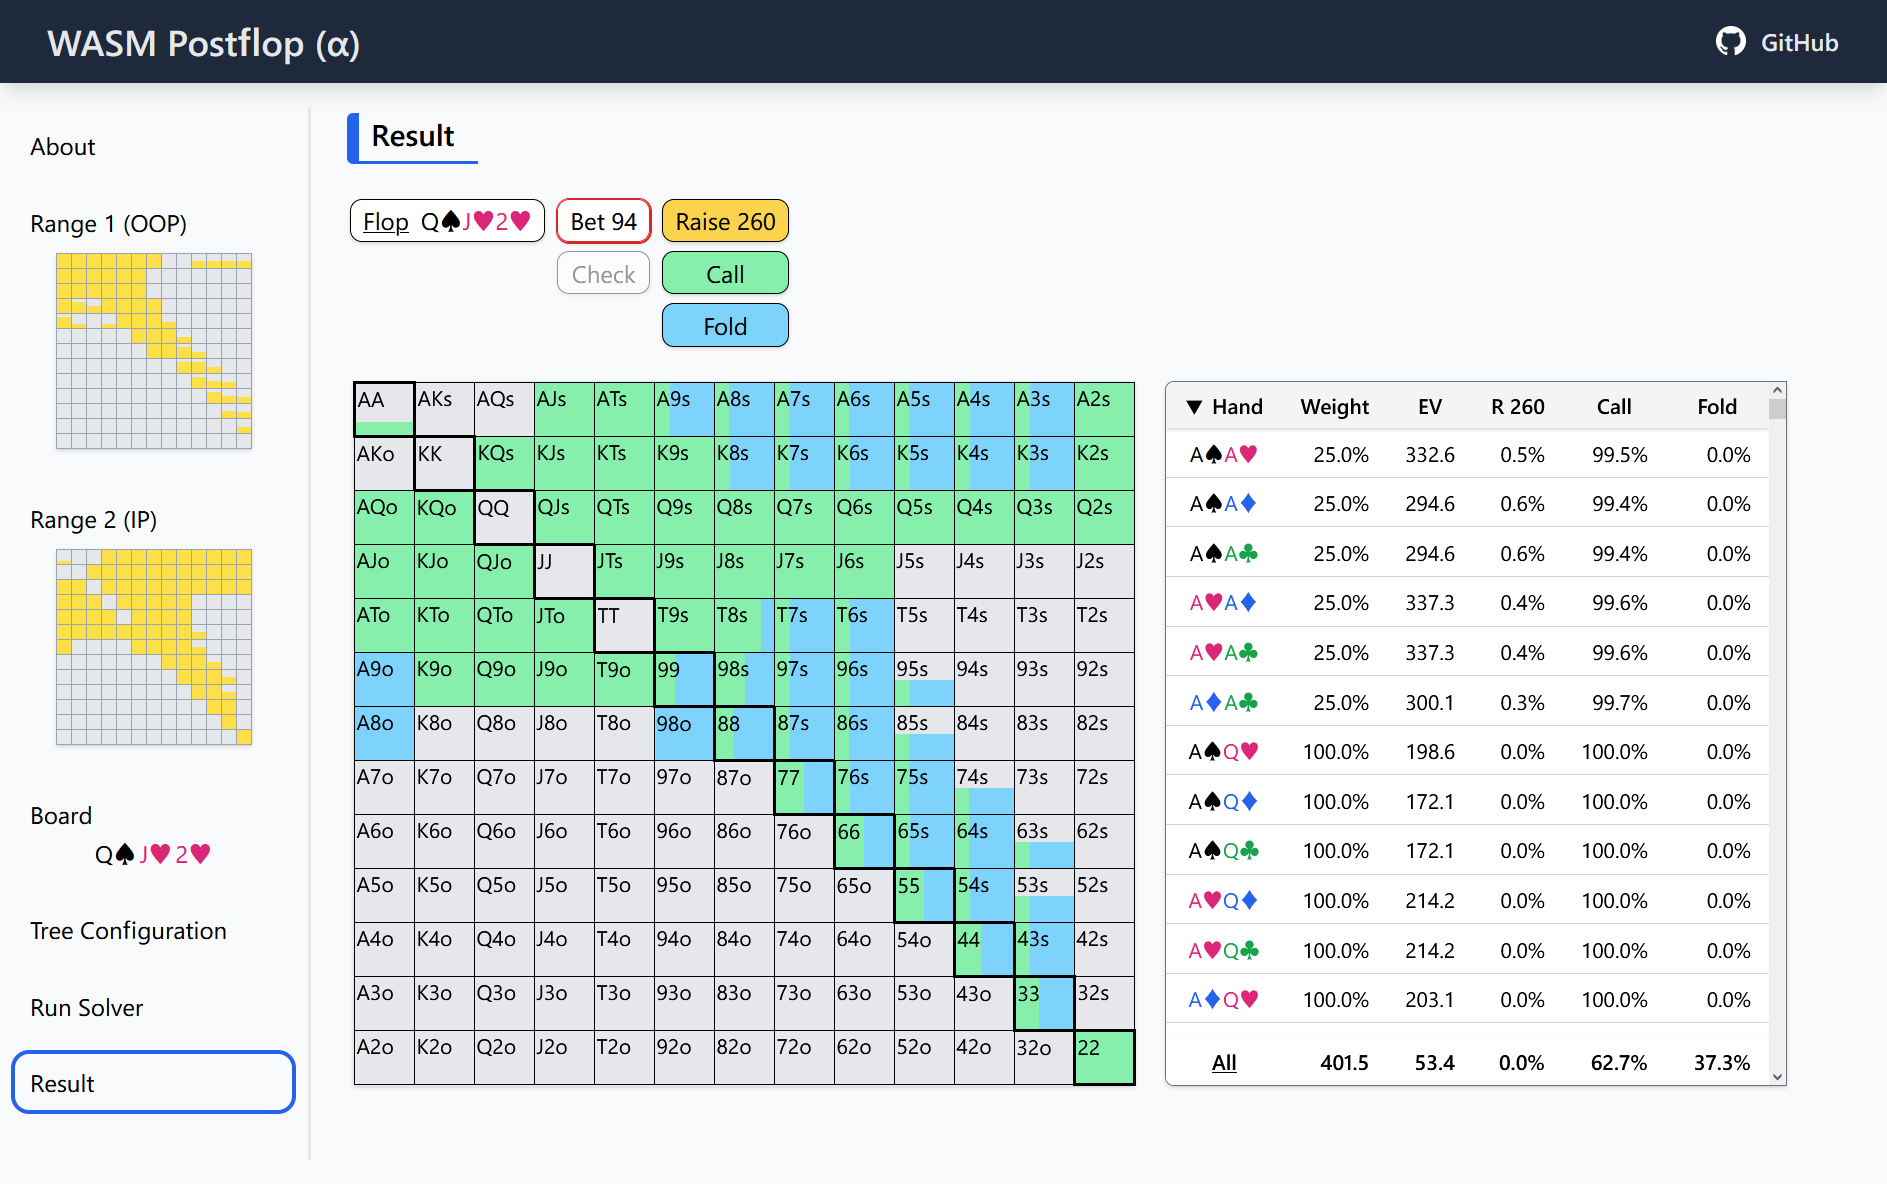
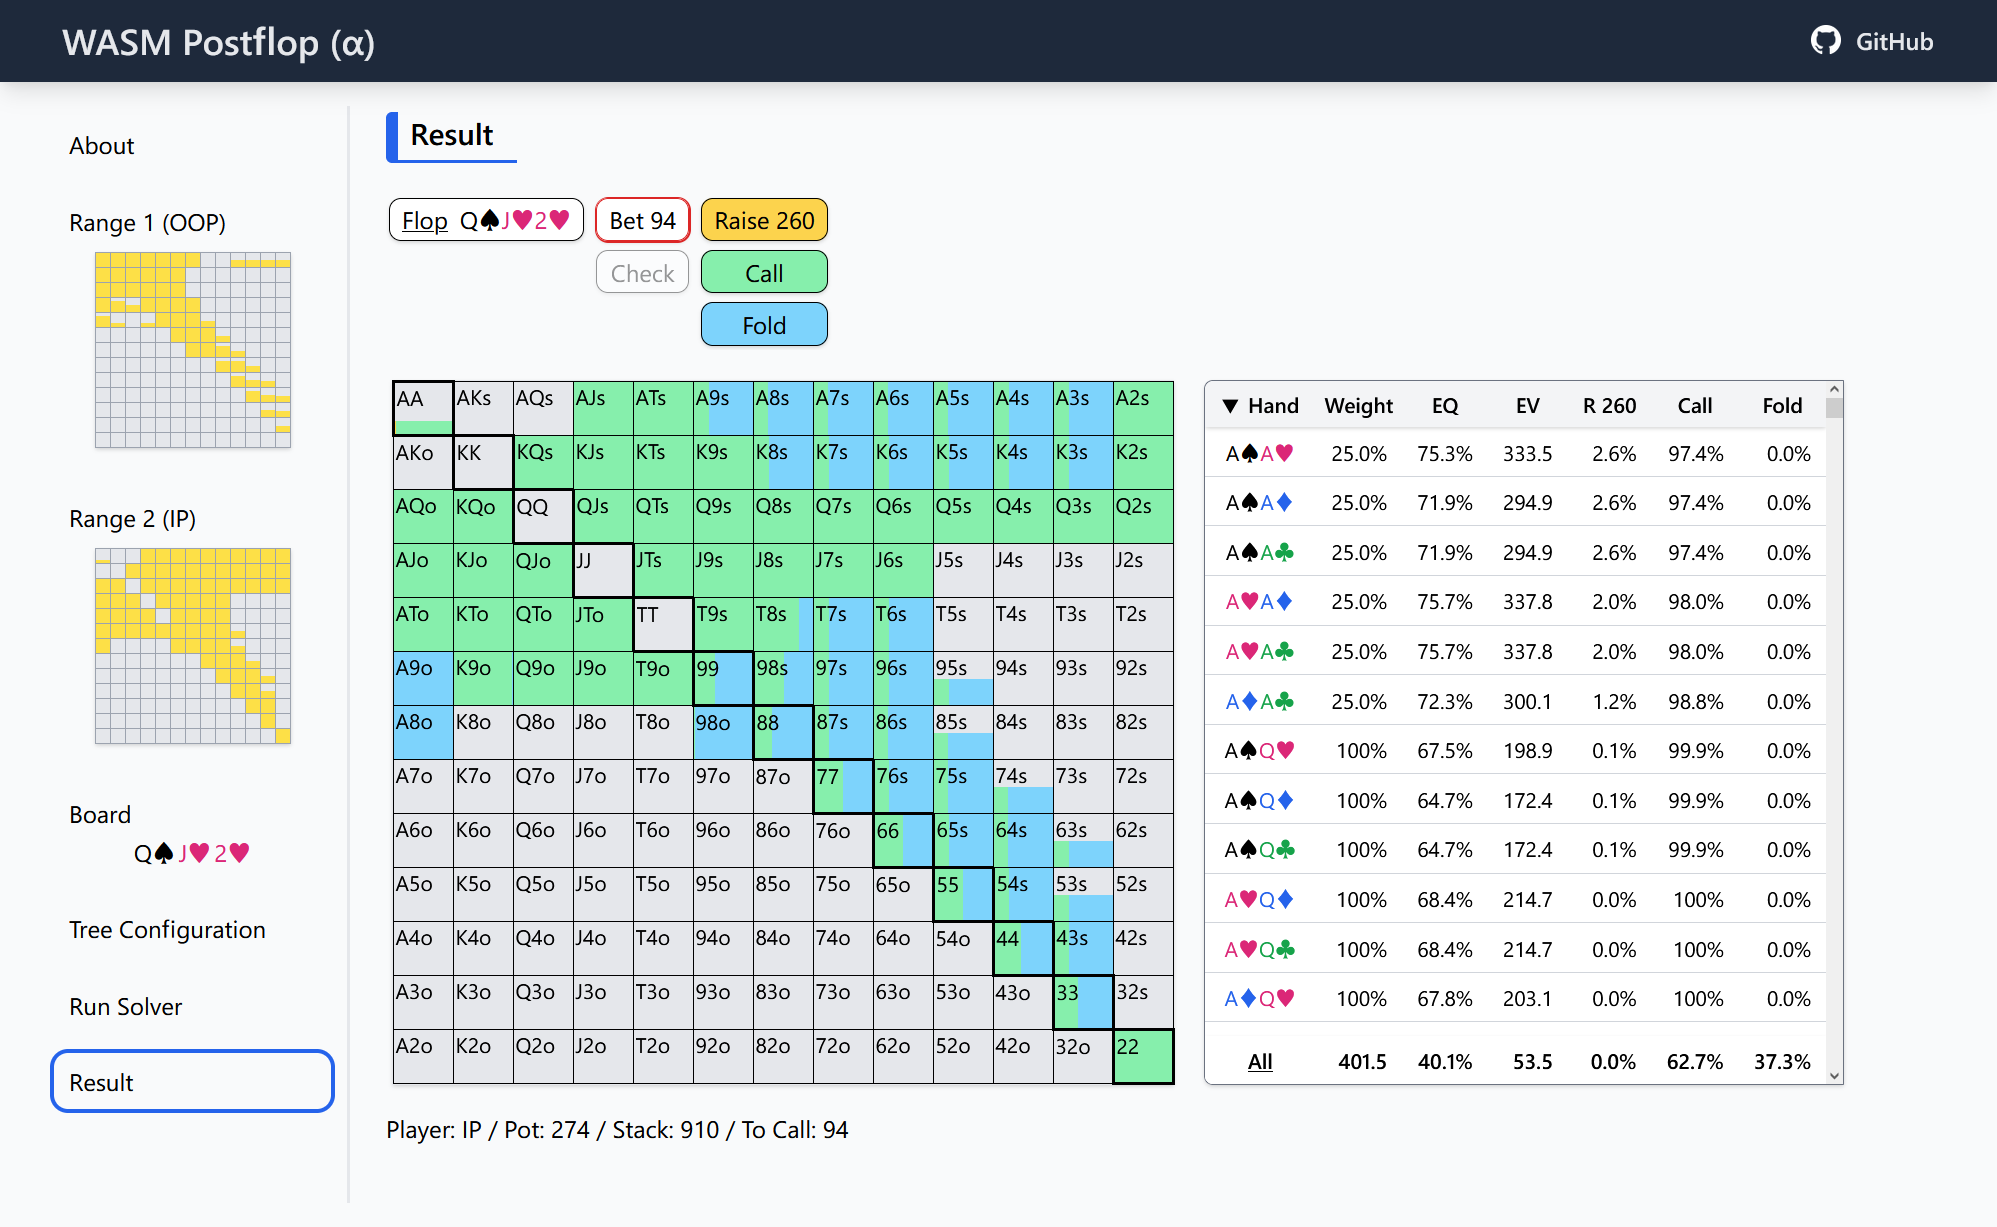
update: show brief information of node at result viewer

Changed region(s): [[0.0, 0.0, 1.0, 0.9688], [0.0307, 0.1562, 0.1537, 0.375], [0.0307, 0.4062, 0.1537, 0.625]]

diff --git a/src/components/ResultViewer.vue b/src/components/ResultViewer.vue
@@ -97,135 +97,144 @@
       v-if="
         actionList.length === 0 || actionList.slice(-1)[0].type === 'Player'
       "
-      class="flex mt-5 items-start"
     >
-      <div class="shrink-0">
-        <table class="ml-1 bg-gray-200 shadow" @mouseleave="onMouseLeave">
-          <tr v-for="row in 13" :key="row" class="h-9">
-            <td
-              v-for="col in 13"
-              :key="col"
-              :class="
-                'relative w-10 border-black select-none ' +
-                (row === col ? 'border-2' : 'border')
-              "
-              @mouseover="onMouseOver(row, col)"
-            >
-              <div
-                class="absolute bottom-0 left-0 w-full"
-                :style="{ height: weightPercent(row, col) }"
+      <div class="flex mt-5 items-start">
+        <div class="shrink-0">
+          <table class="ml-1 bg-gray-200 shadow" @mouseleave="onMouseLeave">
+            <tr v-for="row in 13" :key="row" class="h-9">
+              <td
+                v-for="col in 13"
+                :key="col"
+                :class="
+                  'relative w-10 border-black select-none ' +
+                  (row === col ? 'border-2' : 'border')
+                "
+                @mouseover="onMouseOver(row, col)"
               >
                 <div
-                  v-for="item in cellItems(row, col)"
-                  :key="item.key"
-                  :class="'absolute top-0 right-0 h-full ' + item.class"
-                  :style="item.style"
-                ></div>
-              </div>
-              <div class="absolute -top-px left-px z-50 text-sm">
-                {{ cellText(row, col) }}
-              </div>
-              <div class="absolute -bottom-px right-px z-50 text-sm">
-                {{ cellAuxText(row, col) }}
-              </div>
-            </td>
-          </tr>
-        </table>
+                  class="absolute bottom-0 left-0 w-full"
+                  :style="{ height: weightPercent(row, col) }"
+                >
+                  <div
+                    v-for="item in cellItems(row, col)"
+                    :key="item.key"
+                    :class="'absolute top-0 right-0 h-full ' + item.class"
+                    :style="item.style"
+                  ></div>
+                </div>
+                <div class="absolute -top-px left-px z-50 text-sm">
+                  {{ cellText(row, col) }}
+                </div>
+                <div class="absolute -bottom-px right-px z-50 text-sm">
+                  {{ cellAuxText(row, col) }}
+                </div>
+              </td>
+            </tr>
+          </table>
+        </div>
+
+        <div
+          class="ml-5 max-h-[470px] border border-gray-500 rounded-md shadow overflow-x-auto overflow-y-scroll"
+        >
+          <table class="relative divide-y divide-gray-300">
+            <thead class="sticky top-0 bg-gray-100 shadow">
+              <tr>
+                <th
+                  v-for="text in headers"
+                  :key="text"
+                  scope="col"
+                  :class="
+                    'py-[5px] whitespace-nowrap text-sm font-bold cursor-pointer select-none ' +
+                    (text === 'Hand' ? 'text-center ' : '') +
+                    (text === 'Weight' ? 'px-1.5' : 'px-2.5')
+                  "
+                  @click="sortBy(text)"
+                >
+                  <span
+                    v-if="text === sortKey.key"
+                    class="inline-block mr-0.5 text-xs"
+                  >
+                    {{ sortKey.order === "asc" ? "▲" : "▼" }}
+                  </span>
+                  {{
+                    text
+                      .replace("Bet", "B")
+                      .replace("Raise", "R")
+                      .replace("All-in", "A")
+                  }}
+                </th>
+              </tr>
+            </thead>
+
+            <tbody class="bg-white divide-y divide-gray-300">
+              <tr
+                v-for="item in resultSorted"
+                :key="item.card1 + '-' + item.card2"
+                class="text-right text-sm"
+              >
+                <td class="px-2.5 py-[5px] text-center">
+                  <template
+                    v-for="card in [item.card1, item.card2].map(cardText)"
+                    :key="card.rank + card.suit"
+                  >
+                    <span :class="card.colorClass">
+                      {{ card.rank + card.suit }}
+                    </span>
+                  </template>
+                </td>
+                <td class="px-2.5 py-[5px]">
+                  {{ percentStr(item.weight) }}
+                </td>
+                <td class="px-2.5 py-[5px]">
+                  {{ percentStr(item.equity) }}
+                </td>
+                <td class="px-2.5 py-[5px]">
+                  {{ trimMinusZero(item.expectedValue.toFixed(1)) }}
+                </td>
+                <td
+                  v-for="i in item.strategy.length"
+                  :key="i"
+                  class="px-2.5 py-[5px]"
+                >
+                  {{ percentStr(item.strategy[i - 1]) }}
+                </td>
+              </tr>
+            </tbody>
+
+            <tfoot class="sticky bottom-0 font-bold bg-white shadow">
+              <tr class="text-right text-sm">
+                <th scope="col" class="px-2.5 py-[5px] text-center underline">
+                  {{ hoveredCellText }}
+                </th>
+                <th scope="col" class="px-2.5 py-[5px]">
+                  {{ resultAverage.combos }}
+                </th>
+                <th scope="col" class="px-2.5 py-[5px]">
+                  {{ resultAverage.equity }}
+                </th>
+                <th scope="col" class="px-2.5 py-[5px]">
+                  {{ resultAverage.expectedValue }}
+                </th>
+                <th
+                  v-for="i in resultAverage.strategy.length"
+                  :key="i"
+                  scope="col"
+                  class="px-2.5 py-[5px]"
+                >
+                  {{ resultAverage.strategy[i - 1] }}
+                </th>
+              </tr>
+            </tfoot>
+          </table>
+        </div>
       </div>
 
-      <div
-        class="ml-5 max-h-[470px] border border-gray-500 rounded-md shadow overflow-x-auto overflow-y-scroll"
-      >
-        <table class="relative divide-y divide-gray-300">
-          <thead class="sticky top-0 bg-gray-100 shadow">
-            <tr>
-              <th
-                v-for="text in headers"
-                :key="text"
-                scope="col"
-                :class="
-                  'py-[5px] whitespace-nowrap text-sm font-bold cursor-pointer select-none ' +
-                  (text === 'Hand' ? 'text-center ' : '') +
-                  (text === 'Weight' ? 'px-1.5' : 'px-2.5')
-                "
-                @click="sortBy(text)"
-              >
-                <span
-                  v-if="text === sortKey.key"
-                  class="inline-block mr-0.5 text-xs"
-                >
-                  {{ sortKey.order === "asc" ? "▲" : "▼" }}
-                </span>
-                {{
-                  text
-                    .replace("Bet", "B")
-                    .replace("Raise", "R")
-                    .replace("All-in", "A")
-                }}
-              </th>
-            </tr>
-          </thead>
-
-          <tbody class="bg-white divide-y divide-gray-300">
-            <tr
-              v-for="item in resultSorted"
-              :key="item.card1 + '-' + item.card2"
-              class="text-right text-sm"
-            >
-              <td class="px-2.5 py-[5px] text-center">
-                <template
-                  v-for="card in [item.card1, item.card2].map(cardText)"
-                  :key="card.rank + card.suit"
-                >
-                  <span :class="card.colorClass">
-                    {{ card.rank + card.suit }}
-                  </span>
-                </template>
-              </td>
-              <td class="px-2.5 py-[5px]">
-                {{ percentStr(item.weight) }}
-              </td>
-              <td class="px-2.5 py-[5px]">
-                {{ percentStr(item.equity) }}
-              </td>
-              <td class="px-2.5 py-[5px]">
-                {{ trimMinusZero(item.expectedValue.toFixed(1)) }}
-              </td>
-              <td
-                v-for="i in item.strategy.length"
-                :key="i"
-                class="px-2.5 py-[5px]"
-              >
-                {{ percentStr(item.strategy[i - 1]) }}
-              </td>
-            </tr>
-          </tbody>
-
-          <tfoot class="sticky bottom-0 font-bold bg-white shadow">
-            <tr class="text-right text-sm">
-              <th scope="col" class="px-2.5 py-[5px] text-center underline">
-                {{ hoveredCellText }}
-              </th>
-              <th scope="col" class="px-2.5 py-[5px]">
-                {{ resultAverage.combos }}
-              </th>
-              <th scope="col" class="px-2.5 py-[5px]">
-                {{ resultAverage.equity }}
-              </th>
-              <th scope="col" class="px-2.5 py-[5px]">
-                {{ resultAverage.expectedValue }}
-              </th>
-              <th
-                v-for="i in resultAverage.strategy.length"
-                :key="i"
-                scope="col"
-                class="px-2.5 py-[5px]"
-              >
-                {{ resultAverage.strategy[i - 1] }}
-              </th>
-            </tr>
-          </tfoot>
-        </table>
+      <div class="mt-4">
+        Player: {{ nodeInformation.player === 0 ? "OOP" : "IP" }} / Pot:
+        {{ nodeInformation.pot }} / Stack: {{ nodeInformation.stack }}
+        {{
+          nodeInformation.toCall ? " / To Call: " + nodeInformation.toCall : ""
+        }}
       </div>
     </div>
 
@@ -268,6 +277,8 @@ export default defineComponent({
 
     const isSolverFinished = ref(false);
     const flop = ref([] as number[]);
+    const startingPot = ref(0);
+    const effectiveStack = ref(0);
     const handCards = ref([[], []] as number[][][]);
 
     const actionList = ref(
@@ -304,6 +315,15 @@ export default defineComponent({
         expectedValue: number;
         strategy: number[];
       }[]
+    );
+
+    const nodeInformation = ref(
+      {} as {
+        player: number;
+        pot: number;
+        stack: number;
+        toCall: number;
+      }
     );
 
     const hoveredCell = ref({ row: 0, col: 0 });
@@ -367,6 +387,8 @@ export default defineComponent({
 
       if (isFirstCall) {
         flop.value = [...store.board];
+        startingPot.value = store.startingPot;
+        effectiveStack.value = store.effectiveStack;
         for (let player = 0; player < 2; ++player) {
           const cards = await handler.privateHandCards(player);
           handCards.value[player] = Array.from(
@@ -419,8 +441,8 @@ export default defineComponent({
         }).reverse(),
       });
 
-      const player = await handler.currentPlayer();
-      const cards = handCards.value[player];
+      const currentPlayer = await handler.currentPlayer();
+      const cards = handCards.value[currentPlayer];
 
       const results = await handler.getResults();
       const weights = results.subarray(0, cards.length);
@@ -453,7 +475,7 @@ export default defineComponent({
           equity: (equity[i] / weightsNormalized[i]) * factor + 0.5,
           expectedValue:
             (expectedValues[i] / weightsNormalized[i]) * factor +
-            store.startingPot / 2,
+            startingPot.value / 2,
           strategy: Array.from(
             { length: numActions },
             (_, j) => strategy[j * cards.length + i]
@@ -529,13 +551,57 @@ export default defineComponent({
           equity: equitySumCell[i] / weightNormalizedSumCell[i] + 0.5,
           expectedValue:
             expectedValueSumCell[i] / weightNormalizedSumCell[i] +
-            store.startingPot / 2,
+            startingPot.value / 2,
           strategy: Array.from(
             { length: numActions },
             (_, j) => strategySumCell[i][j] / weightNormalizedSumCell[i]
           ),
         };
       });
+
+      let player = 0;
+      let pot = startingPot.value;
+      let stack = [effectiveStack.value, effectiveStack.value];
+      let lastBet = 0;
+
+      for (let i = 0; i < actionList.value.length - 1; ++i) {
+        const item = actionList.value[i];
+        if (item.type !== "Player") {
+          player = 0;
+          lastBet = 0;
+          continue;
+        }
+
+        const action = item.actions[item.selectedIndex];
+
+        if (action.str === "Call") {
+          pot += stack[player] - stack[1 - player];
+          stack[player] = stack[1 - player];
+        } else if (action.str.slice(0, 3) === "Bet") {
+          const bet = Number(action.str.slice(4));
+          pot += bet;
+          stack[player] -= bet;
+          lastBet = bet;
+        } else if (
+          action.str.slice(0, 5) === "Raise" ||
+          action.str.slice(0, 6) === "All-in"
+        ) {
+          const bet = Number(action.str.slice(6).trimStart());
+          const stackDiff = stack[player] - stack[1 - player];
+          pot += bet - lastBet + stackDiff;
+          stack[player] -= bet - lastBet + stackDiff;
+          lastBet = bet;
+        }
+
+        player = 1 - player;
+      }
+
+      nodeInformation.value = {
+        player,
+        pot,
+        stack: stack[player],
+        toCall: stack[player] - stack[1 - player],
+      };
     };
 
     const moveResult = async (depth: number, index: number) => {
@@ -858,6 +924,7 @@ export default defineComponent({
       headers,
       resultSorted,
       resultAverage,
+      nodeInformation,
     };
   },
 });
